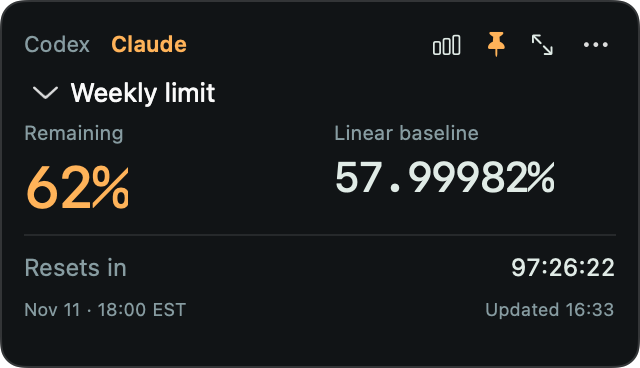
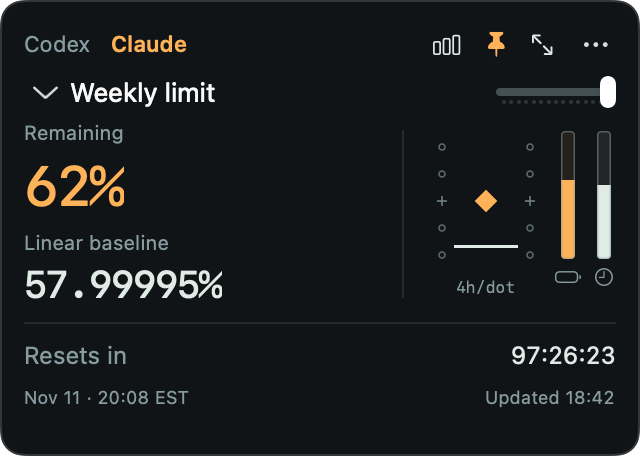
Show the symbol instrument beside numeric mini readouts

diff --git a/native/Mini.swift b/native/Mini.swift
@@ -14,7 +14,7 @@ enum MiniCorner: String, CaseIterable {
 }
 
 enum MiniLayout {
-    static let valueSize = NSSize(width: 320, height: 184)
+    static let valueSize = NSSize(width: 320, height: 228)
     static let symbolSize = NSSize(width: 110, height: 148)
     static func opacity(_ value: Double) -> Double { value.isFinite ? min(1, max(0.3, value)) : 1 }
     static func size(symbols: Bool) -> NSSize { symbols ? symbolSize : valueSize }
@@ -172,13 +172,11 @@ struct MiniView: View {
                 if model.miniSymbols { Image(systemName: "arrow.triangle.2.circlepath").font(.system(size: 8)).help("Updating…") }
                 else { Text("Updating…") }
             }
-            if model.miniSymbols {
-                Slider(value: $model.miniOpacity, in: 0.3...1, step: 0.05)
-                    .labelsHidden().controlSize(.mini).tint(model.accent).frame(width: 36)
-                    .accessibilityLabel("Window opacity")
-                    .accessibilityValue("\(Int((model.miniOpacity * 100).rounded())) percent")
-                    .help("Window opacity: \(Int((model.miniOpacity * 100).rounded()))%")
-            }
+            Slider(value: $model.miniOpacity, in: 0.3...1, step: 0.05)
+                .labelsHidden().controlSize(.mini).tint(model.accent).frame(width: model.miniSymbols ? 36 : 60)
+                .accessibilityLabel("Window opacity")
+                .accessibilityValue("\(Int((model.miniOpacity * 100).rounded())) percent")
+                .help("Window opacity: \(Int((model.miniOpacity * 100).rounded()))%")
         }.font(.system(size: 10)).foregroundStyle(FlightDeck.muted).frame(height: 14)
     }
     private func symbolTitle(_ quota: Quota) -> String {
@@ -215,10 +213,15 @@ struct MiniView: View {
         let age = time - quota.observedAt
         let stale = age > Double(max(model.interval * 3, 600))
         return VStack(alignment: .leading, spacing: 7) {
-            HStack(alignment: .firstTextBaseline, spacing: 14) {
-                metric("Remaining", value: Formats.percent(quota.remaining), size: 30, color: model.accent)
-                metric("Linear baseline", value: quota.isIdle ? "—" : String(format: "%.*f%%", GaugeScale.precision(model.displayStep), quota.baseline(time)), size: 21, color: FlightDeck.ink)
-            }.frame(height: 50)
+            HStack(alignment: .center, spacing: 12) {
+                VStack(alignment: .leading, spacing: 6) {
+                    metric("Remaining", value: Formats.percent(quota.remaining), size: 28, color: model.accent)
+                    metric("Linear baseline", value: quota.isIdle ? "—" : String(format: "%.*f%%", GaugeScale.precision(model.displayStep), quota.baseline(time)), size: 19, color: FlightDeck.ink)
+                }
+                Rectangle().fill(.white.opacity(0.09)).frame(width: 1, height: 84)
+                // Both mini modes share the same scale, warning, drag, and wheel controls.
+                symbols(quota, now: now).frame(width: 94)
+            }.frame(height: 94)
             Rectangle().fill(.white.opacity(0.09)).frame(height: 1)
             HStack {
                 Text(quota.isIdle ? "Reset" : "Resets in").foregroundStyle(FlightDeck.muted)

diff --git a/tools/Screenshots.swift b/tools/Screenshots.swift
@@ -86,8 +86,11 @@ private final class ScreenshotWindow: NSWindow {
             let model = ScreenshotModel()
             model.provider = provider
             model.selectedID = provider == "codex" ? "codex:primary" : "claude:seven_day"
-            try render(GaugeView(model: model), size: NSSize(width: 560, height: 780),
-                       output: output.appendingPathComponent("full-\(provider).png"))
+            model.miniDotIndex = DotScale.defaultIndex(unit: .time, durationMinutes: model.quota!.durationMinutes)
+            if !CommandLine.arguments.contains("--mini-only") {
+                try render(GaugeView(model: model), size: NSSize(width: 560, height: 780),
+                           output: output.appendingPathComponent("full-\(provider).png"))
+            }
             try render(MiniView(model: model), size: MiniLayout.size(symbols: false),
                        output: output.appendingPathComponent("mini-\(provider).png"))
         }

diff --git a/README.md b/README.md
@@ -4,7 +4,7 @@
 
 Usage Gauge brings the visual language of aircraft instruments to Codex and Claude on macOS: a glideslope-inspired deviation display, detented rotary selectors, thin reference marks, and compact readouts. Keep it in a corner of your screen and see whether your remaining quota is above or below a linear budget through the next reset.
 
-The cockpit influence is in the interaction, too. Your diamond stays fixed while the reference moves; the wheel changes scale one detent at a time; a direct red/service-color warning marks the upper limit. Open the full panel for history and forecasts, shrink to numbers, or strip it down to symbols.
+The cockpit influence is in the interaction, too. Your diamond stays fixed while the reference moves; the wheel changes scale one detent at a time; a direct red/service-color warning marks the upper limit. Open the full panel for history and forecasts, keep numbers beside the instrument in mini mode, or strip it down to symbols.
 
 ![Codex and Claude in Usage Gauge: session time scale, weekly time scale, and percentage-point mode](docs/demo.gif)
 
@@ -18,11 +18,11 @@ The cockpit influence is in the interaction, too. Your diamond stays fixed while
 | --- | --- |
 | ![Codex full window: remaining quota, history graph, reset countdown, and rotary selectors](docs/full-codex.png) | ![Claude full window: weekly quota, forecast, usage breakdown, and rotary selectors](docs/full-claude.png) |
 
-**Numeric mini · 320 × 184 points.** Remaining quota, linear baseline, and time to reset in a small window you can keep on top.
+**Numeric mini · 320 × 228 points.** Exact remaining quota and linear baseline on the left, the symbol instrument on the right, and reset time below. Read the numbers and your pace together in a small window you can keep on top. The instrument keeps the same wheel/click scale selection, drag behavior, and warning as symbols-only mode; its unit and spacing stay in sync when switching modes. The opacity slider sits beside the limit selector.
 
 | Codex | Claude |
 | --- | --- |
-| ![Codex numeric mini window with remaining quota, linear baseline, and reset time](docs/mini-codex.png) | ![Claude numeric mini window with weekly quota, linear baseline, and reset time](docs/mini-claude.png) |
+| ![Codex numeric mini window with numbers beside the symbol instrument and reset time below](docs/mini-codex.png) | ![Claude numeric mini window with weekly numbers beside the symbol instrument and reset time below](docs/mini-claude.png) |
 
 *These stills render the actual app views with synthetic fixtures, including the native rotary controls. No account is connected or read during generation.*
 
@@ -63,7 +63,7 @@ The center is **your current state**, not 50% remaining. The two thin vertical b
 - With macOS Reduce Motion enabled, the warning is steady red. An unavailable or stale observation pauses the warning and shows a status icon.
 - The symbol window is **110 × 148 points**. Choose the service at the top; the `…` menu contains pinning, values, full window, refresh, and corner placement.
 
-The full window adds history, a consumption forecast when enough observations exist, and rotary selectors for time range and display interval. The numeric mini window shows remaining quota, baseline, and reset time.
+The full window adds history, a consumption forecast when enough observations exist, and rotary selectors for time range and display interval. The numeric mini window pairs remaining quota and baseline numbers with the symbol instrument, with reset time below.
 
 | Scale | Default | Wheel choices | Range at default |
 | --- | --- | --- | --- |
